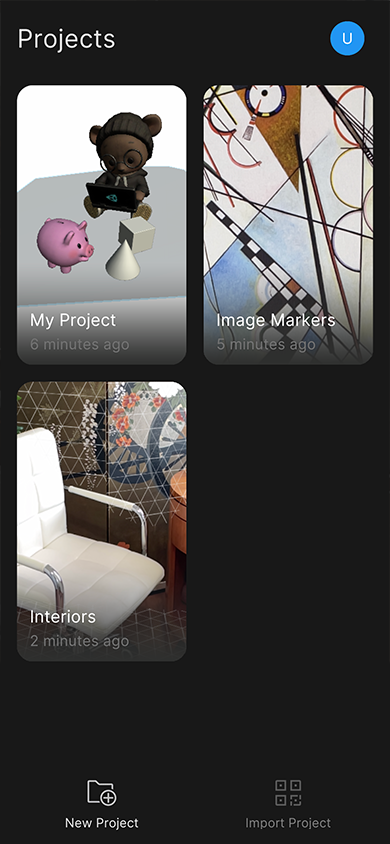
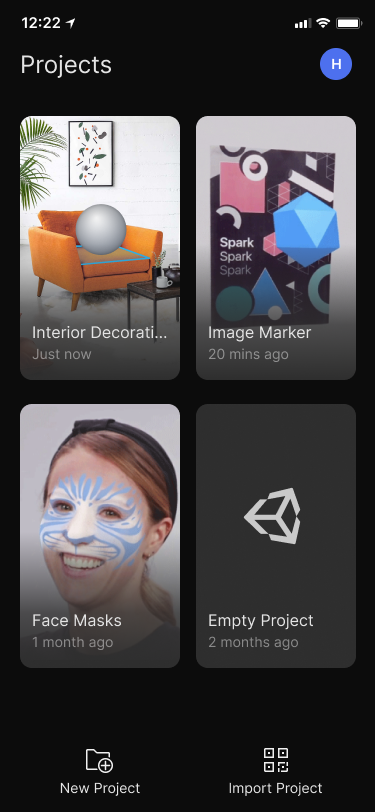
update

diff --git a/unity-1.html b/unity-1.html
@@ -15,33 +15,21 @@ title: Du Hoang
     </div>
    </div>
     <div class="section">
-      <div class="grid">
+      <div class="grid single">
         <div class="cell">
-            <img src="img/splash1.png" />
-        </div>
-        <div class="cell">
-            <img src="img/splash2.png" />
-        </div>
-        <div class="cell">
-            <img src="img/splash3.png" />
-        </div>
-        <div class="cell">
-            <img src="img/splash4.png" />
-        </div>
-        <div class="cell">
-            <img src="img/splash5.png" />
+            <img src="img/MCA-header.png" />
         </div>
       </div>
       <div class="text">
         <h1>Unity AR Companion</h1>
-        <p>Unity MARS is a suite of authoring tools and runtime systems for creating intelligent AR applications.</p>
-        <p>The AR Companion app in particular allows for authoring and data capture on Augmented Reality devices that can then be imported into the Unity Editor as assets for your MARS projects.</p>
-      </div>
+        <p>The Unity AR Companion app allows for the authoring of Augmented Reality content and environment data capture on mobile devices, which then can be ingested into the Unity Game Engine.</p>
+        <p>It is a part of Unity's Mixed and Augmented Reality suite of tools designed for creating intelligent AR applications </p>
+        </div>
 
       <div class="grid">
           <div class="cell">
-              
-          </div>
+                <img src="img/MCA-splashscreen.png" />
+            </div>
           <div class="cell">
               <img src="img/arca1.png" />
           </div>
@@ -49,15 +37,13 @@ title: Du Hoang
               <img src="img/arca2.png" />
           </div>
           <div class="cell">
+                <img src="img/splash4.png" />
+            </div>
+          <div class="cell">
               <img src="img/arca3.png" />
           </div>
-          <div class="cell">
-              
-          </div>
 
-          <div class="cell">
-              
-            </div>
+          
             <div class="cell">
                 <img src="img/arca4.png" />
             </div>
@@ -65,11 +51,15 @@ title: Du Hoang
                 <img src="img/arca5.png" />
             </div>
             <div class="cell">
+                <img src="img/splash5.png" />
+            </div>
+            <div class="cell">
                 <img src="img/arca6.png" />
             </div>
             <div class="cell">
-                
-            </div>
+                    <img src="img/MCA-inspector.png" />
+                </div>
+            
             
             </div>
               <div class="bottom-block text links">